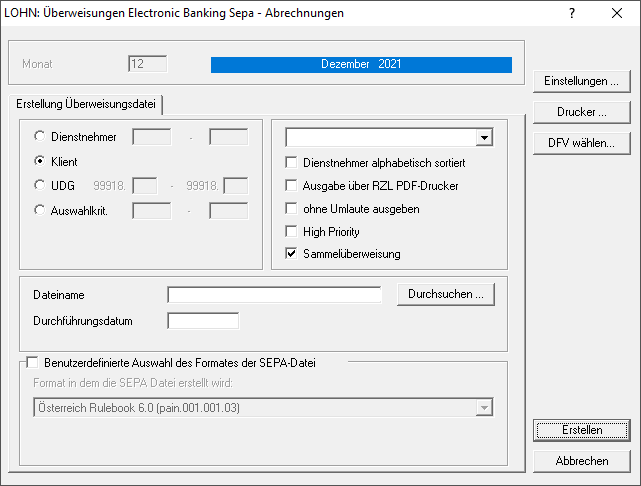
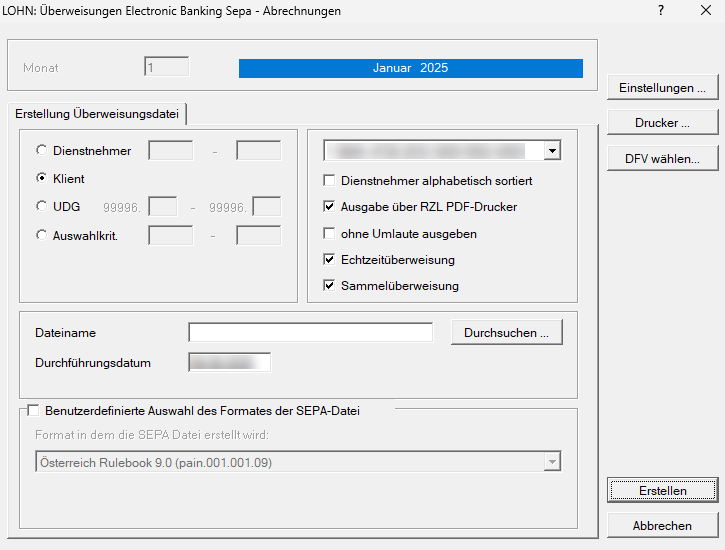
Elektronic Banking SEPA: Echtzeitüberweisung hinzugefügt, High Priority entfernt

Changed region(s): [[0.0, 0.0, 1.0, 1.0]]

diff --git a/docs/LOHN/Elektronic Banking SEPA.md b/docs/LOHN/Elektronic Banking SEPA.md
@@ -24,9 +24,9 @@ Wird dieses Feld angewählt, erfolgt die Ausgabe des Überweisungsprotokolls als
 
 Bei ausländischen Banken können sich Probleme ergeben, wenn Umlaute in die Datei mitausgegeben werden. Die Anwahl dieses Feldes ersetzt folgende Zeichen (ä = a, ü =u, ö = o, ß = s).
 
-**High Priority**
+**Echtzeitüberweisung**
 
-Durch dieses Auswahlfeld geben Sie an, dass es sich um eine Eilüberweisung handelt. Die Banken verlangen in der Regel eine Gebühr für solche Überweisungen.
+Mit diesem Auswahlfeld geben Sie an, dass Sie die Überweisung in Echtzeit durchführen möchten.
 
 **Sammelüberweisung**
 
